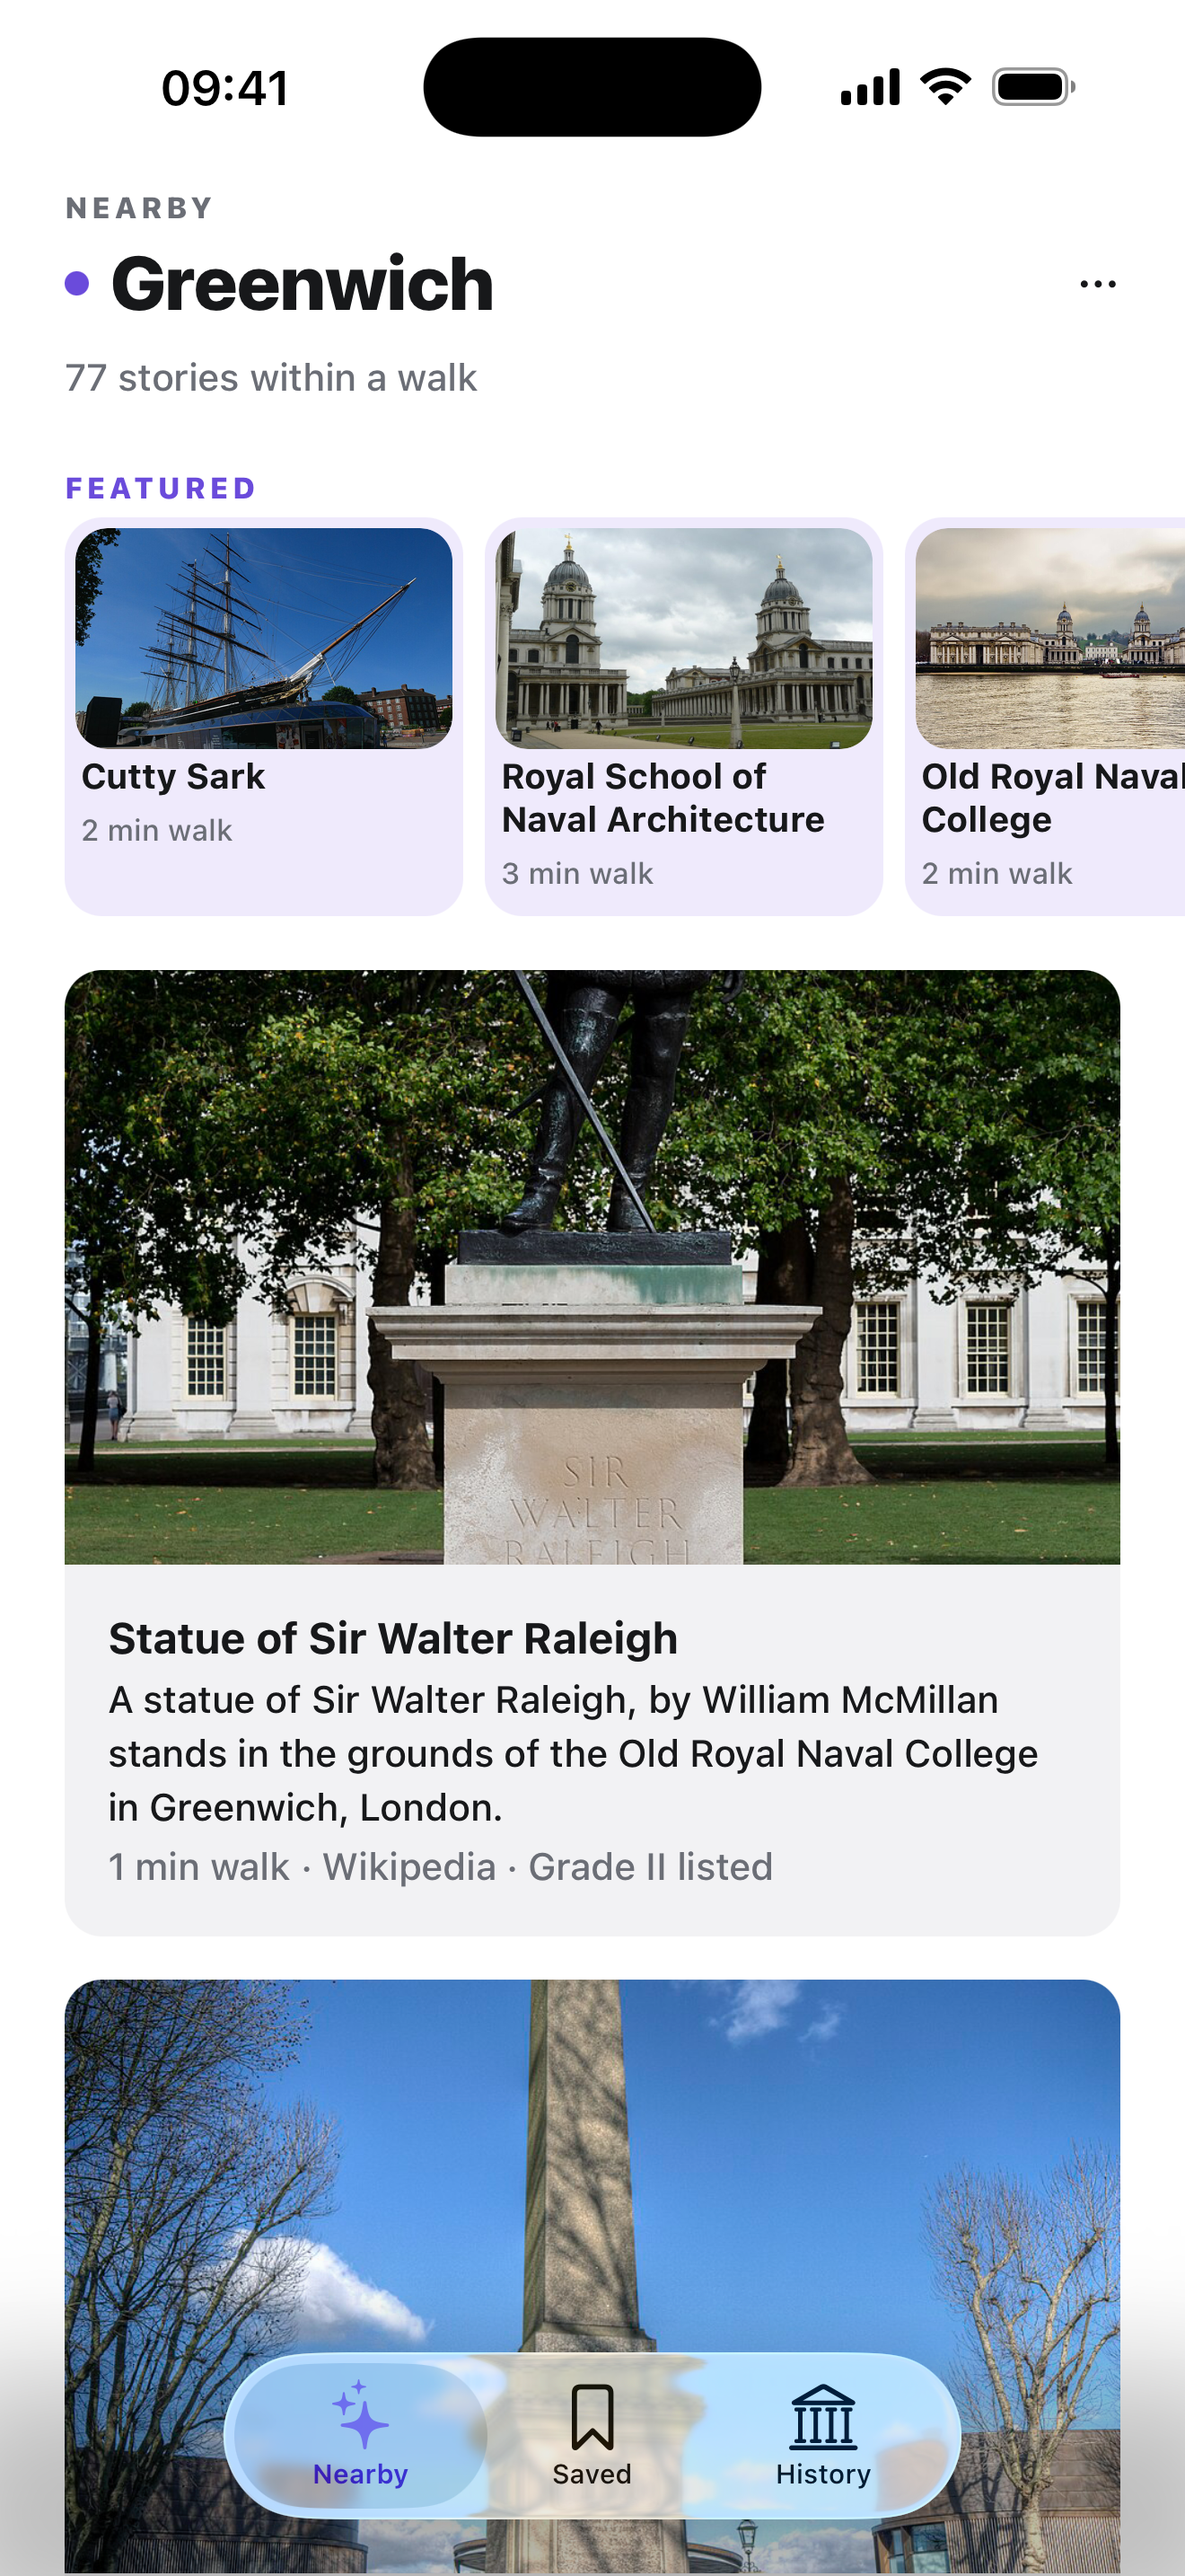
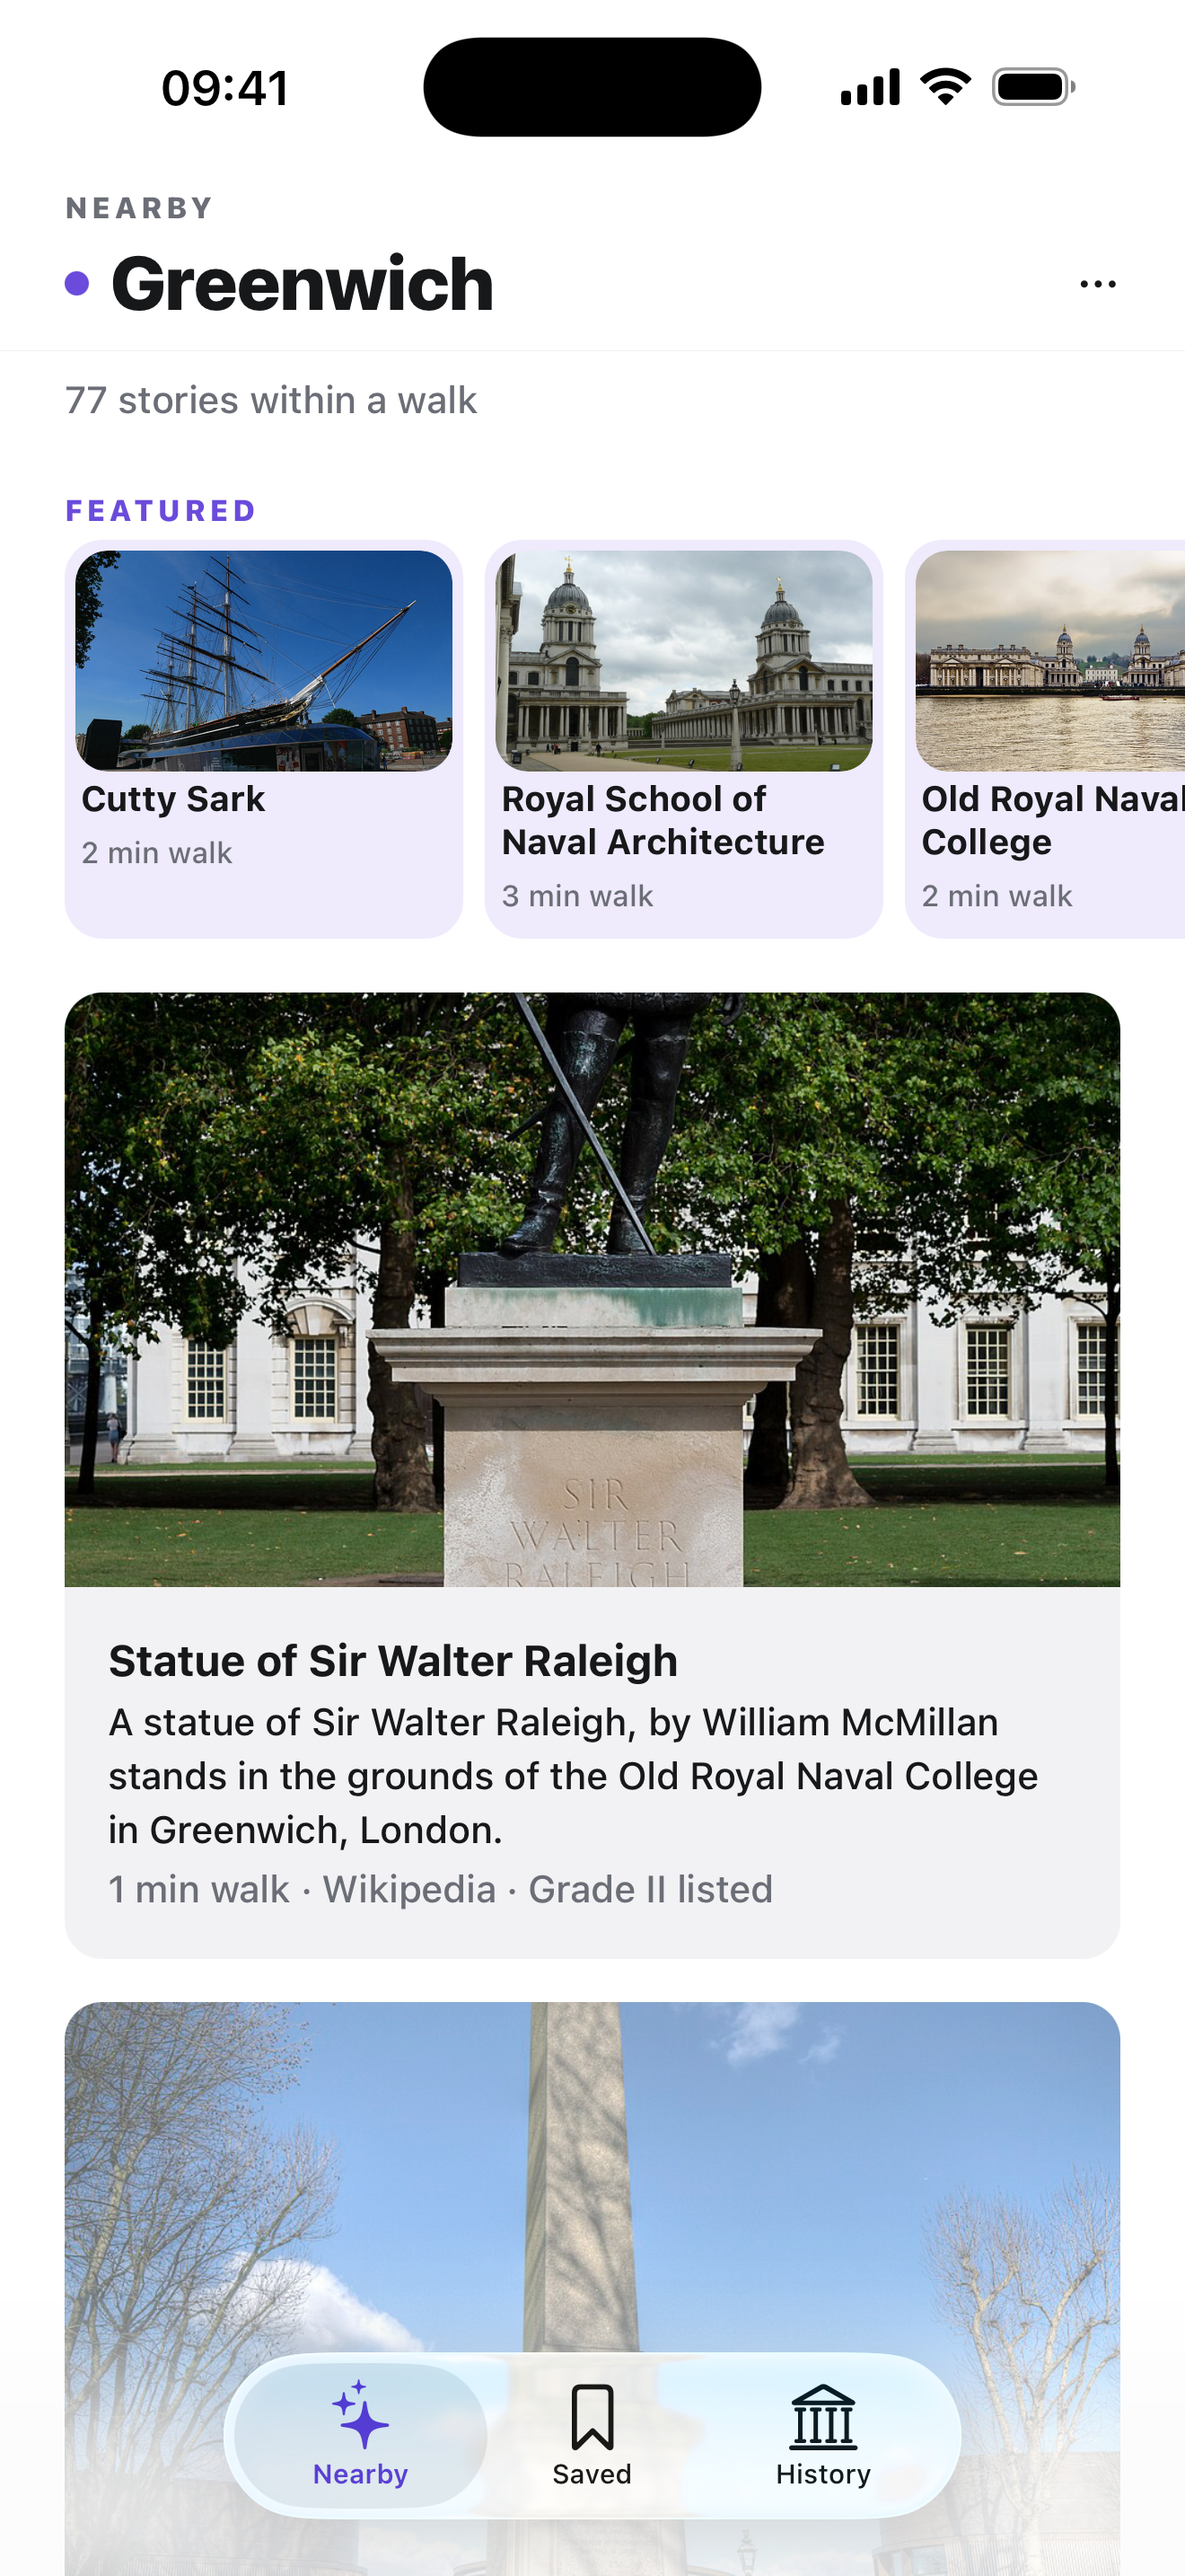
The rule moves to the seam it was written for
The first attempt put the hairline on the header block, one element
too early: the count line is a PINNED SIBLING of the list, not part of
the header, so the rule landed between the title and the count while
the seam that actually slices a card's text stayed bare. Caught in a
screenshot crop, which is the only reason anyone noticed.

It now sits under the count line, where the list passes beneath.

diff --git a/src/components/section-screen.tsx b/src/components/section-screen.tsx
@@ -193,7 +193,7 @@ function SectionHeader({
   const title = areaName ?? 'Near you';
 
   return (
-    <View style={[styles.header, { borderBottomColor: theme.backgroundElement }]}>
+    <View style={styles.header}>
       <ThemedText type="eyebrow" themeColor={exploring ? 'accent' : 'textSecondary'}>
         {exploring ? 'Exploring' : eyebrow}
       </ThemedText>
@@ -523,7 +523,7 @@ export function HistoryBody({
       {/* The count stays pinned — Edd asked for the FEATURED items to
           scroll away, nothing else */}
       {items.length > 0 && (
-        <View style={styles.controlLine}>
+        <View style={[styles.countLine, { borderBottomColor: theme.backgroundElement }]}>
           <ThemedText type="small" themeColor="textSecondary">
             {/* Honest in quiet corners: the server widened its search
                 (sparse-area mode) and the count line says so — with a
@@ -586,14 +586,7 @@ const styles = StyleSheet.create({
   header: {
     paddingHorizontal: Spacing.four,
     paddingTop: Spacing.two,
-    paddingBottom: Spacing.two,
     gap: Spacing.one,
-    // The feed scrolls UNDER this block, so without an edge a card's
-    // text is simply sliced mid-sentence by the count line and reads
-    // as a collision (seen at the end of the Greenwich feed). A
-    // hairline in the card colour is the quietest thing that says
-    // "the list starts here".
-    borderBottomWidth: StyleSheet.hairlineWidth,
   },
   titleRow: {
     flexDirection: 'row',
@@ -657,6 +650,18 @@ const styles = StyleSheet.create({
     fontSize: 11,
     paddingHorizontal: 2,
     paddingBottom: 2,
+  },
+  // The seam the list scrolls under. The count is pinned while cards
+  // pass beneath it, so with no edge a card's text is sliced
+  // mid-sentence and reads as a collision. The rule belongs HERE, not
+  // on the header block above: the count line is a pinned sibling of
+  // the list, and a border on the header lands one element too early
+  // (caught in a screenshot, after the first attempt shipped).
+  countLine: {
+    paddingHorizontal: Spacing.four,
+    paddingTop: Spacing.two,
+    paddingBottom: Spacing.two,
+    borderBottomWidth: StyleSheet.hairlineWidth,
   },
   controlLine: {
     flexDirection: 'row',
